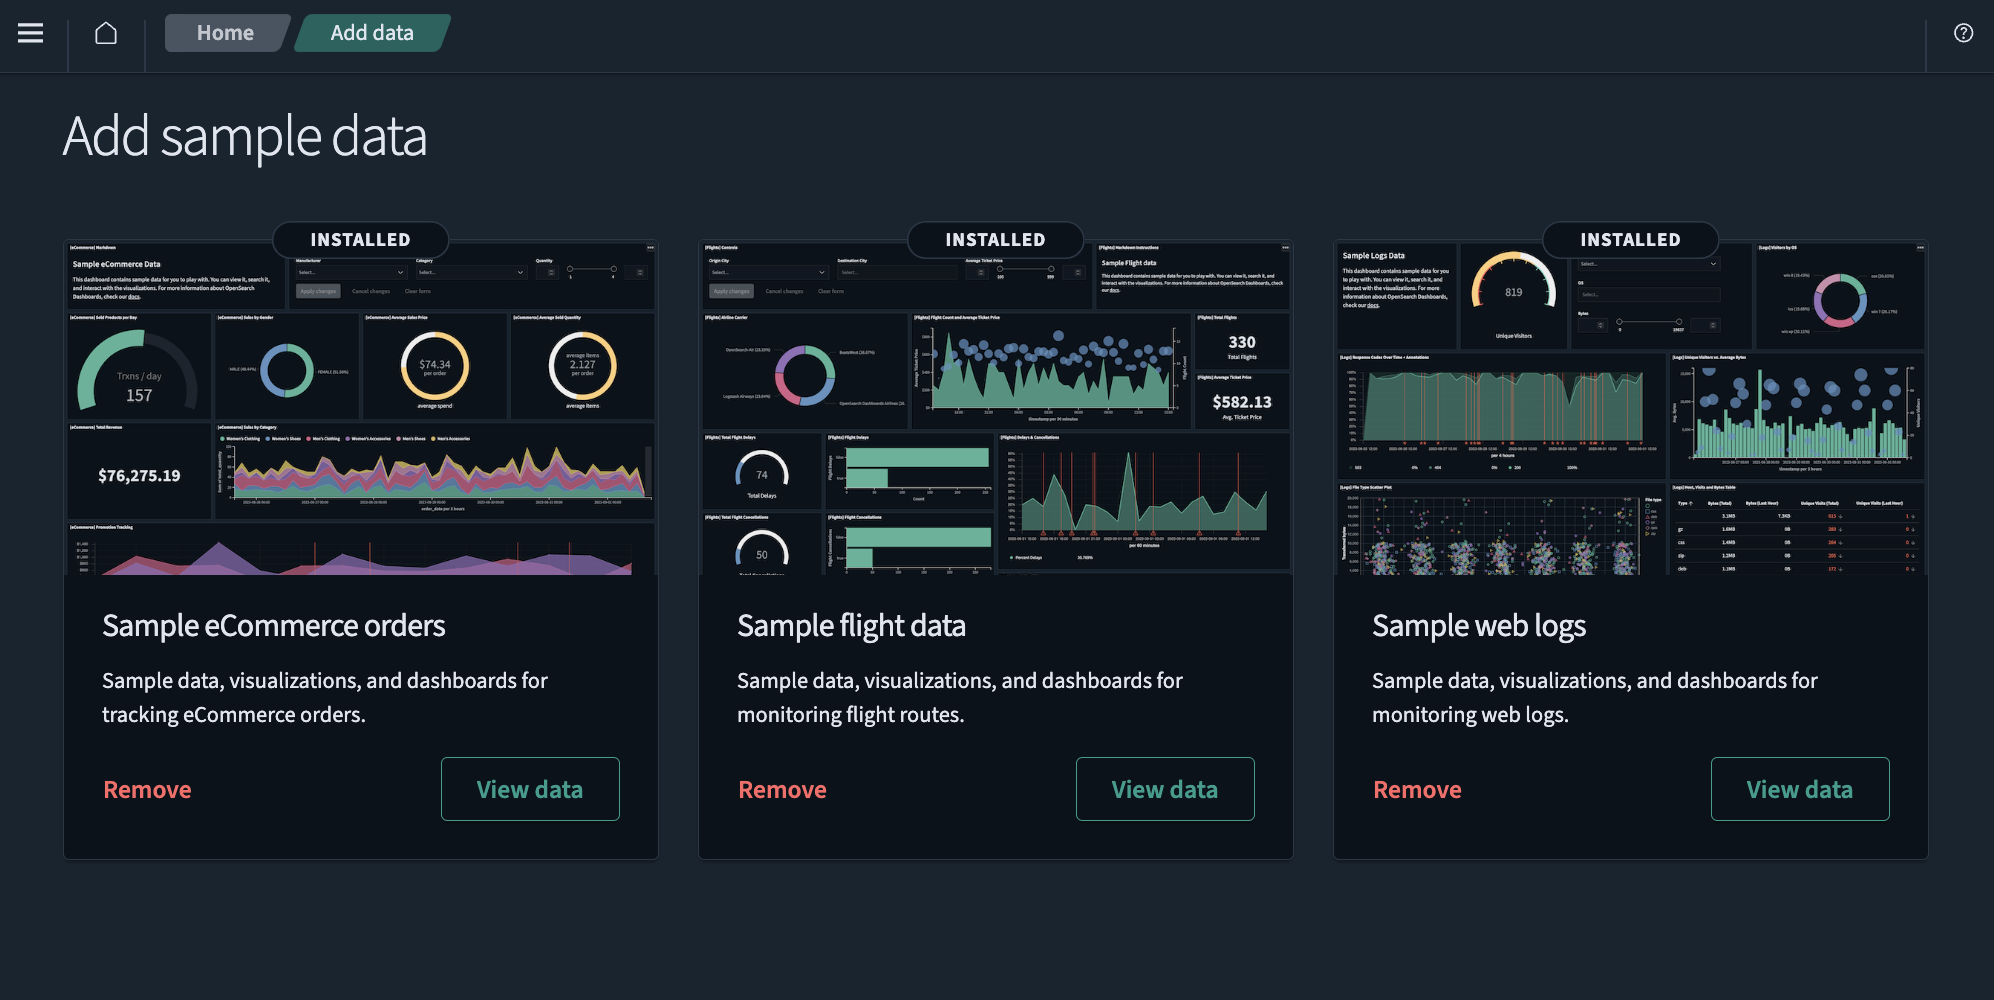
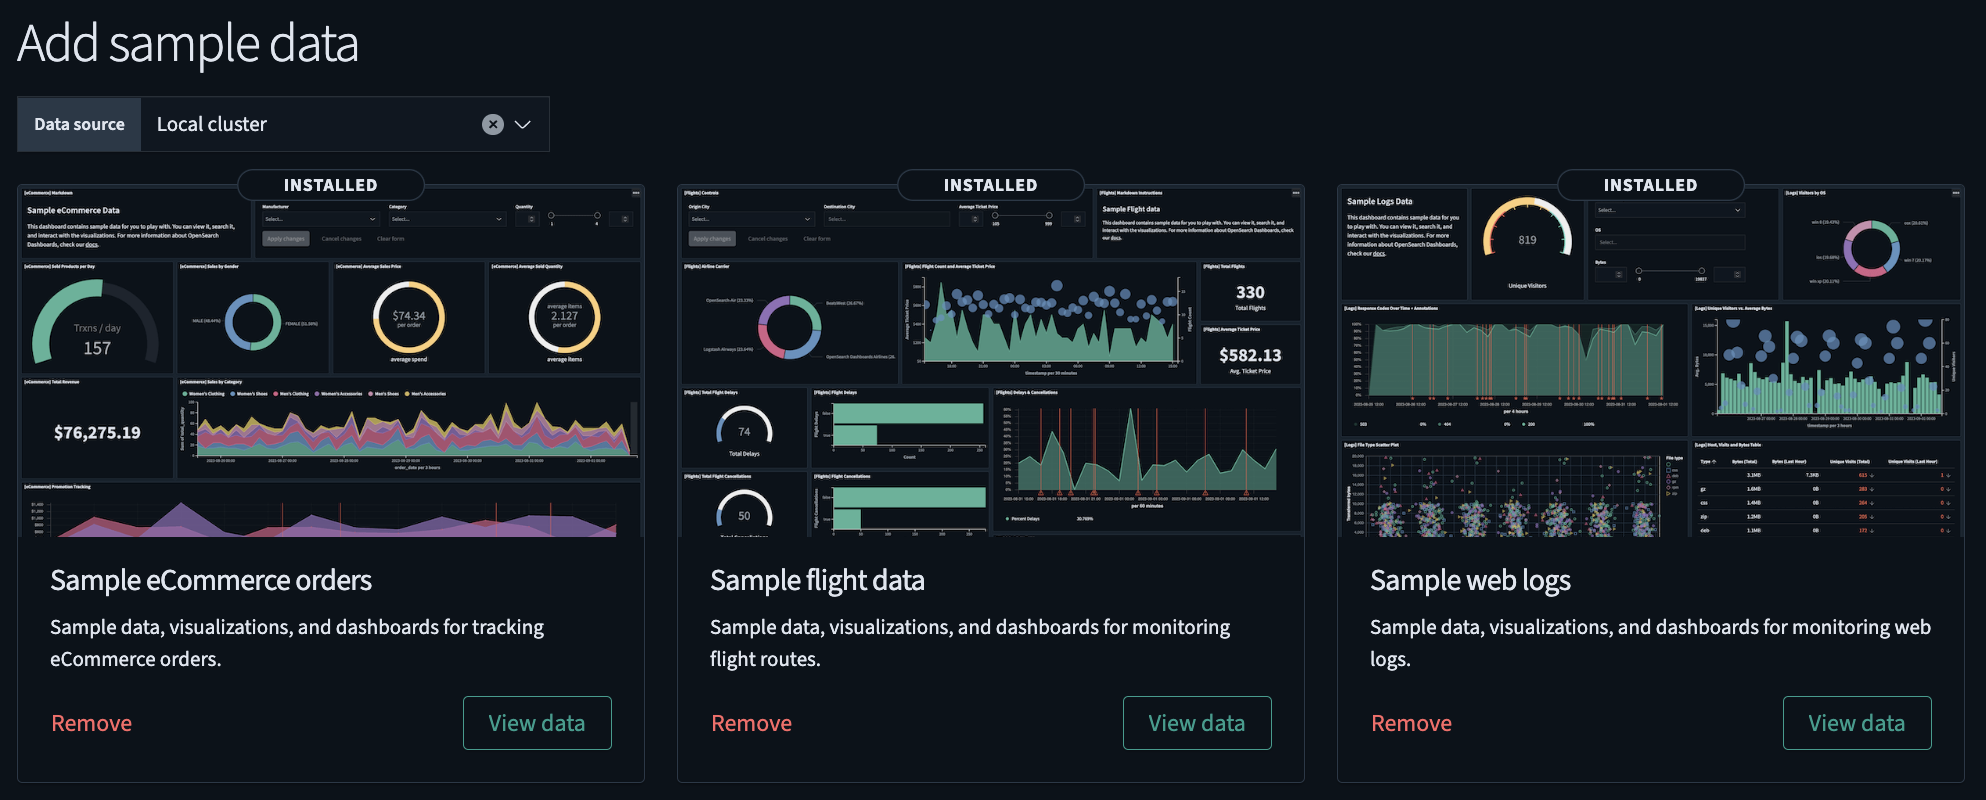
Update quickstart appearance theme section and screenshots

diff --git a/_dashboards/quickstart.md b/_dashboards/quickstart.md
@@ -14,13 +14,17 @@ This quickstart guide provides tutorials on using OpenSearch Dashboards applicat
 - **Adding sample data:** Use preloaded visualizations, dashboards, and other tools to explore OpenSearch Dashboards before adding your own data.
 - **Using the Discover application:** Analyze your data to gain insights.
 - **Using the Dashboards application:** Create and store data visualizations.
-- **Turning dark mode on or off:** Change the Dashboards theme.
+- **Customizing the appearance theme:** Quickly change the OpenSearch Dashboards appearance theme from the home page.
 
-To dock or undock the navigation pane, select the {::nomarkdown}<img src="{{site.url}}{{site.baseurl}}/images/icons/menu-icon.png" class="inline-icon" alt="menu icon"/>{:/} icon and then **Dock navigation** or **Undock navigation**. The OpenSearch Dashboards home page is shown in the following image.  
+The OpenSearch Dashboards' default view is shown in the following image.
 
-<img src="{{site.url}}{{site.baseurl}}/images/dashboards/opensearch-dashboards-home.png" alt="OpenSearch Dashboards home page" width="700">
+<img src="{{site.url}}{{site.baseurl}}//images/dashboards/home-page-nav.png" alt="OpenSearch Dashboards interface default view" width="700">
 
-{::nomarkdown}<img src="{{site.url}}{{site.baseurl}}/images/icons/alert-icon.png" class="inline-icon" alt="alert icon"/>{:/} **Note**<br>Before you get started, make sure you've installed OpenSearch and OpenSearch Dashboards. For information about installation and configuration, see [Install and configure OpenSearch]({{site.url}}{{site.baseurl}}/install-and-configure/install-opensearch/index/) and [Install and configure OpenSearch Dashboards]({{site.url}}{{site.baseurl}}/install-and-configure/install-dashboards/index/).
+## Docking the navigation menu
+
+To dock or undock the navigation pane, select the {::nomarkdown}<img src="{{site.url}}{{site.baseurl}}/images/icons/menu-icon.png" class="inline-icon" alt="menu icon"/>{:/} icon and then **Dock navigation** or **Undock navigation**. 
+
+Before continuing with the following tutorials, make sure you've installed OpenSearch and OpenSearch Dashboards. For information about installation and configuration, see [Install and configure OpenSearch]({{site.url}}{{site.baseurl}}/install-and-configure/install-opensearch/index/) and [Install and configure OpenSearch Dashboards]({{site.url}}{{site.baseurl}}/install-and-configure/install-dashboards/index/).
 {: .note}
 
 ## Adding sample data
@@ -33,7 +37,7 @@ To add sample data, follow these steps:
 1. On the OpenSearch Dashboards **Home** page, choose **Add sample data**. Alternatively, choose **Add data** on the upper-right toolbar.
 2. On the **Add sample data** page, choose the dataset(s) you want to add to Dashboards. The following image shows the available sample datasets.
 
-<img src="{{site.url}}{{site.baseurl}}/images/dashboards/add-sample-data-2.png" alt="Adding sample data window" width="700">
+<img src="{{site.url}}{{site.baseurl}}/images/dashboards/add-sample.png" alt="Adding sample data window" width="700">
 
 ## Using the Discover application 
 
@@ -57,7 +61,7 @@ The resulting view is shown in the following image.
 
 ## Using the Dashboards application
 
-With **Dashboards**, you can:
+With [**Dashboards**]({{site.url}}{{site.baseurl}}/dashboards/dashboard/index/), you can:
 
 - Display data in a single view.
 - Build dynamic dashboards.
@@ -71,11 +75,11 @@ The **Dashboards** application creates and stores visualizations generated from 
 3. To add other panels to the dashboard, select the **Edit** button and then choose **Add** from the toolbar. The **Add panels** window opens. 
 4. In the search toolbar in the **Add panels** window, search for and select the existing panel **[Flights] Delay Buckets**. A pop-up message confirms that you've added the panel.
 5. Select close `x` to exit the **Add panels** window.
-6. The newly added panel is now displayed on the dashboard.
+6. The newly added panel is now displayed as the last panel on the dashboard.
 
 The resulting view is shown in the following image.
 
-<img src="{{site.url}}{{site.baseurl}}/images/dashboards/add-panel2.png" alt="Add panel tutorial screen view" width="700">
+<img src="{{site.url}}{{site.baseurl}}/images/dashboards/add-dash-panel.png" alt="Add panel view" width="700">
 
 For information about using a specific data visualization type, such as VisBuilder, go to [Building data visualizations]({{site.url}}{{site.baseurl}}/dashboards/visualize/viz-index/). For information about using dashboards and visualizations in **Observability**, go to [Observability]({{site.url}}{{site.baseurl}}/observing-your-data/).
 {: .note}
@@ -86,33 +90,56 @@ Interactive dashboards allow you to analyze data in more depth and filter it in 
 
 Using the **[Flights] Global Flight Dashboard** dashboard, follow these steps to further analyze and filter the sample flight data:
 
-1. On the **[Flights] Airline Carrier** panel, choose **OpenSearch-Air**. The dashboard updates automatically.
+1. On the **[Flights] Airline Carrier** panel, choose **OpenSearch-Air**. The dashboard updates automatically, as shown in the following GIF.
 2. Choose **Save** to save the dashboard.
+
+![Filter data demo]({{site.url}}{{site.baseurl}}/images/dashboards/airline-carrier.gif)
 
 Alternatively, you can use the dashboard toolbar to apply filters by following these steps:
 
 1. In the dashboard toolbar, choose **Add filter**.
-2. From the **Field**, **Operator**, and **Value** dropdown lists, choose **Carrier**, **is**, and **OpenSearch-Air**, respectively, as shown in the following image.
+2. From the **Field**, **Operator**, and **Value** dropdown lists, choose **Carrier**, **is**, and **OpenSearch-Air**, respectively.
 3. Choose **Save**. The dashboard updates automatically.
 
 The resulting view is shown in the following image.
 
-<img src="{{site.url}}{{site.baseurl}}//images/<insert image>" alt="Screenshot of Dashboard tutorial panel view" width="700">
+<img src="{{site.url}}{{site.baseurl}}/images/dashboards/filter-data-dash.png" alt="Dashboards tutorial panel view" width="700">
 
-## Turning dark mode on or off
+## Customizing the appearance theme
+Introduced 2.14
+{: .label .label-purple }
 
-Changing the Dashboards theme requires admin permissions. If you are an admin, follow these steps:
+Light mode is the default appearance theme in OpenSearch Dashboards. You can customize the appearance theme to suit your preferences. The available options include light mode, dark mode, and using your browser's settings.
+
+### Enabling the appearance theme setting
+
+The appearance theme setting is enabled or disabled through **Advanced Settings** and requires admin permissions. If you do not see the {::nomarkdown}<img src="{{site.url}}{{site.baseurl}}/images/icons/theme-icon.png" class="inline-icon" alt="theme icon"/>{:/} icon on the upper right of the **Home** page, then the setting is likely disabled. To enable it, contact your admin. 
+
+### Changing the appearance theme for all users
+
+Admins can change the appearance theme for all users of their OpenSearch Dashboards instance through **Advanced Settings**:
 
 1. Navigate to **Management** > **Dashboards Management** > **Advanced Settings**.
-2. Scroll down to the **Appearance** section and locate the **Dark mode** option.
-3. Use the toggle switch to turn dark mode on or off for all users of your Dashboards instance, as shown in the image following these steps.
-4. Select the **Save changes** button and then the **Reload** button. The updated theme is applied immediately.
+2. Scroll to the **Appearance** section and toggle `theme:darkMode` on or off.
+3. Select the **Save changes** button, then the **Reload** button. The updated theme is applied immediately.
 
 <img src="{{site.url}}{{site.baseurl}}/images/dashboards/dark-mode.png" alt="Dark mode view" width="700">
 
+### Changing your appearance theme from the Home page
+
+If the setting is enabled, you can change your OpenSearch Dashboards appearance theme from the **Home** page:
+
+1. Select {::nomarkdown}<img src="{{site.url}}{{site.baseurl}}/images/icons/theme-icon.png" class="inline-icon" alt="theme icon"/>{:/} icon on the upper right.
+2. Choose one of the following theme settings: **Light**, **Dark**, or **Use browser settings**. 
+3. Select **Apply**. The interface appearance automatically changes. 
+
+A view is shown in the following image.
+
+<img src="{{site.url}}{{site.baseurl}}/images/dashboards/appearance-home.png" alt="Theme icon on Home page" width="250">
+
 ## Next steps
 
-- Go to [Building data visualizations]({{site.url}}{{site.baseurl}}/dashboards/visualize/viz-index/) to learn more about Dashboards data visualizations.
+- Go to [Building data visualizations]({{site.url}}{{site.baseurl}}/dashboards/visualize/viz-index/) to learn more about data visualizations.
 - Go to [Creating dashboards]({{site.url}}{{site.baseurl}}/dashboards/quickstart-dashboards/) to learn more about creating dashboards.
 - Go to [Analyzing data]({{site.url}}{{site.baseurl}}/dashboards/discover/index-discover/) to learn more about using Dashboards to analyze data. 
-- Go to [Ingest APIs]({{site.url}}{{site.baseurl}}/api-reference/ingest-apis/index/) and [Ingest pipelines]({{site.url}}{{site.baseurl}}/ingest-pipelines/) to learn more about using OpenSearch for data ingestion.
+- Go to [Ingest APIs]({{site.url}}{{site.baseurl}}/api-reference/ingest-apis/index/) and [Ingest pipelines]({{site.url}}{{site.baseurl}}/ingest-pipelines/) to learn more about data ingestion using OpenSearch.
